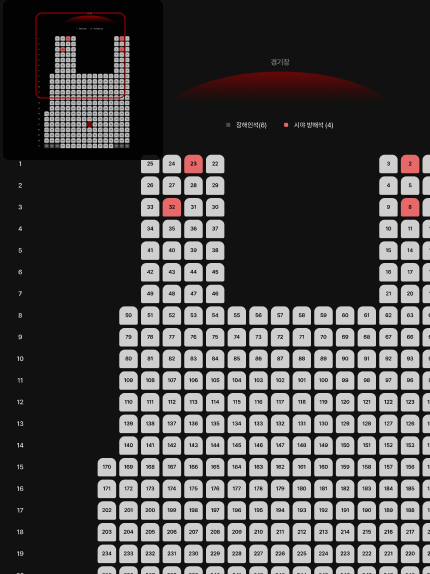
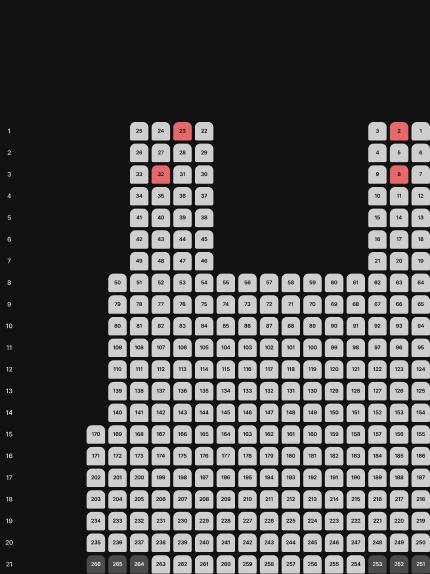
스타디움 진행중

diff --git a/src/pages/stadiumpg/StadiumSeatDetail.css b/src/pages/stadiumpg/StadiumSeatDetail.css
@@ -1,7 +1,3 @@
-main {
-  padding: 0;
-}
-
 .seat-detail {
   background: #000;
   min-height: 100vh;
